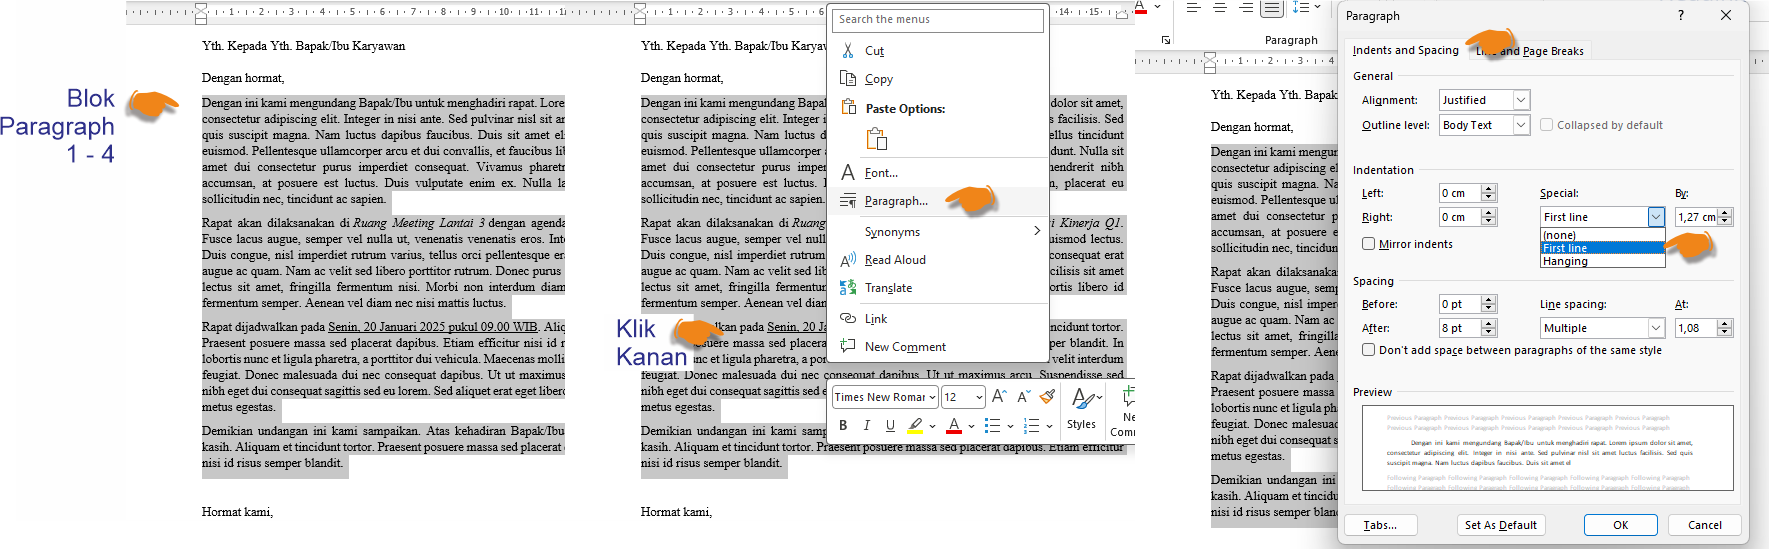
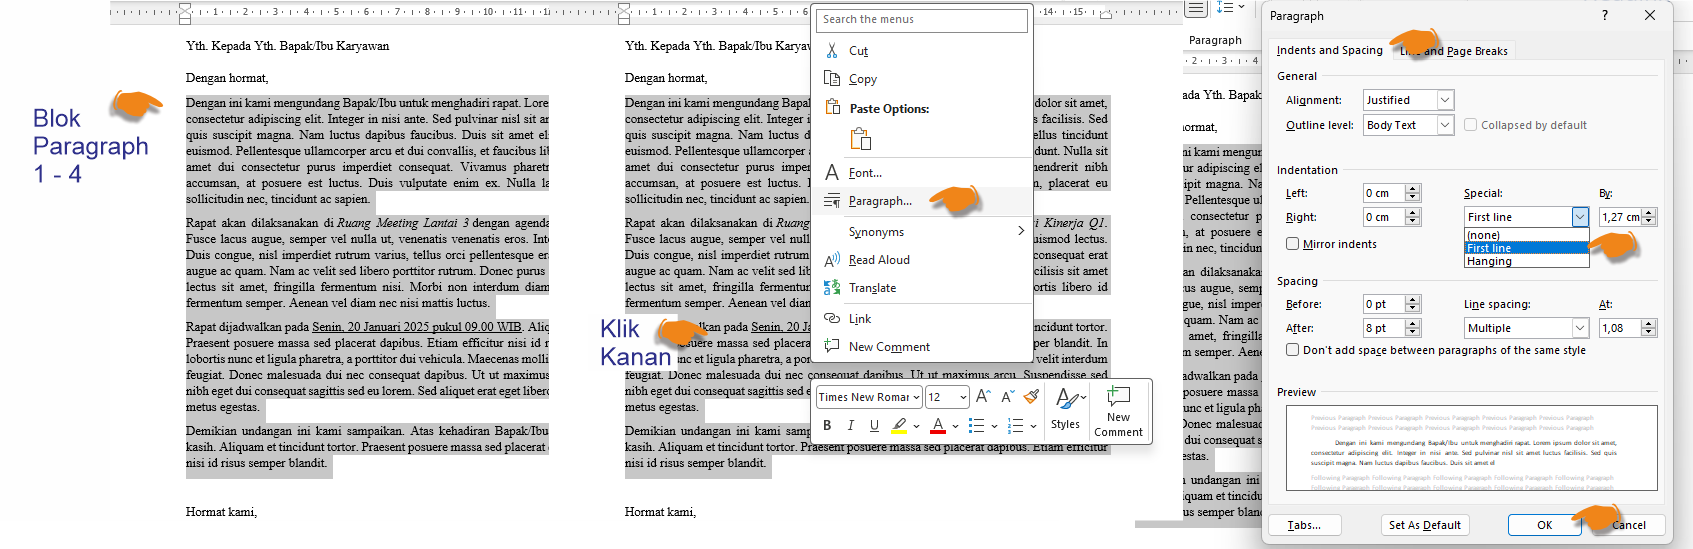
M

diff --git a/materi-word.html b/materi-word.html
@@ -547,10 +547,6 @@
                                   <li>Blok seluruh Isi Surat.</li>
                                   <li>Tab <strong>Home</strong> → grup <strong>Paragraph</strong> → <strong>Line and
                                       Paragraph Spacing</strong>.
-                                    <div class="my-3">
-                                      <img src="assets/img/word/sesi1dasar03.png" alt=""
-                                        class="img-fluid shadow rounded">
-                                    </div>
                                   </li>
                                   <li>Pilih <strong>1.5</strong>.</li>
                                 </ol>
@@ -576,22 +572,60 @@
                         </div>
 
                         <ol start="5">
-                          <li>Atur <strong>Alinea</strong> dan <strong>Spasi Baris 1,5</strong>. <br>
-                            Blok seluruh Isi Surat.
-                            <ol>
-                              <li>Tab <strong>Home</strong> → grup <strong>Paragraph</strong> → <strong>Line and
-                                  Paragraph Spacing</strong>.
-                                <div class="my-3">
-                                  <img src="assets/img/word/sesi1dasar03.png" alt="" class="img-fluid shadow rounded">
-                                </div>
-                              </li>
-                              <li>Pilih <strong>1.5</strong>.
-                                <div class="my-3">
-                                  <img src="assets/img/word/sesi1dasar04.png" alt="" class="img-fluid shadow rounded">
-                                </div>
-                              </li>
-                            </ol>
+                          <li>Atur <strong>Alinea</strong>
+                            <div class="row">
+                              <div class="col-md-6">
+                                <ol start="1">
+                                  <li>Atur <strong>Alinea</strong>
+                                    <ol>
+                                      <li>Blok Isi Surat dari Paragraph 1 - 4.
+                                        <div class="my-3">
+                                          <img src="assets/img/word/sesi1dasar03.1.png" alt=""
+                                            class="img-fluid shadow rounded">
+                                        </div>
+                                      </li>
+                                    </ol>
+                                  </li>
+                                </ol>
+                              </div>
+                              <div class="col-md-6">
+                                <ol start="2">
+                                  <li>Klik Kanan → <strong>Paragraph</strong>
+                                    <div class="my-3">
+                                      <img src="assets/img/word/sesi1dasar03.2.png" alt=""
+                                        class="img-fluid shadow rounded">
+                                    </div>
+                                  </li>
+                                </ol>
+                              </div>
+                            </div>
                           </li>
+                          <div class="row">
+                            <div class="col-md-6">
+                              <ol start="3">
+                                <li>
+                                  <ol>
+                                    <li>Tab <strong>Indents and Spacing</strong>
+                                      <div class="my-3">
+                                        <img src="assets/img/word/sesi1dasar03.3.png" alt=""
+                                          class="img-fluid shadow rounded">
+                                      </div>
+                                    </li>
+                                  </ol>
+                                </li>
+                              </ol>
+                            </div>
+                            <div class="col-md-6">
+                              <ol start="4">
+                                <li><strong>Hasil</strong>:
+                                  <div class="my-3">
+                                    <img src="assets/img/word/sesi1dasar03.4.png" alt=""
+                                      class="img-fluid shadow rounded">
+                                  </div>
+                                </li>
+                              </ol>
+                            </div>
+                          </div>
                         </ol>
 
 
